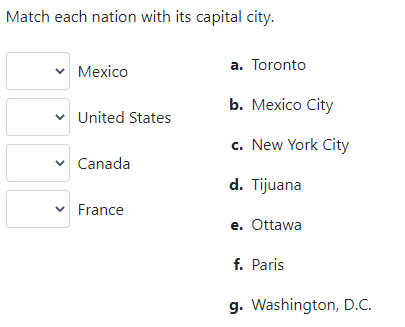
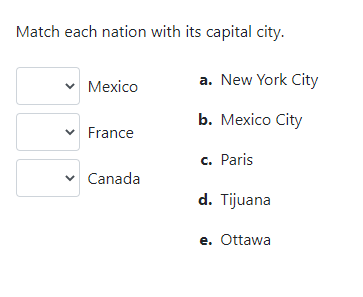
Add fixed-options-order to pl-matching (#4819)
* Add fixed-options-order

* Correct pl-matching news screenshot.

* Fix rendering of counters in answers panel.

* Add note about fixed-options-order

* Add distractors in their original position

* Rephrase comment for clarity

diff --git a/elements/pl-matching/pl-matching.py b/elements/pl-matching/pl-matching.py
@@ -113,13 +113,14 @@ def prepare(element_html, data):
     element = lxml.html.fragment_fromstring(element_html)
 
     required_attribs = ['answers-name']
-    optional_attribs = ['fixed-order', 'number-statements', 'number-options', 'none-of-the-above', 'blank', 'counter-type']
+    optional_attribs = ['fixed-order', 'number-statements', 'number-options', 'none-of-the-above', 'blank', 'counter-type', 'fixed-options-order']
     pl.check_attribs(element, required_attribs, optional_attribs)
     name = pl.get_string_attrib(element, 'answers-name')
     options, statements = categorize_matches(element, data)
 
     # Choose and randomize the options and statements. Each can be in a fixed order.
     fixed_statements_order = pl.get_boolean_attrib(element, 'fixed-order', FIXED_STATEMENTS_ORDER_DEFAULT)
+    fixed_options_order = pl.get_boolean_attrib(element, 'fixed-options-order', FIXED_OPTIONS_ORDER_DEFAULT)
     number_statements = pl.get_integer_attrib(element, 'number-statements', len(statements))
     number_options = pl.get_integer_attrib(element, 'number-options', len(options))
     nota = pl.get_boolean_attrib(element, 'none-of-the-above', NOTA_DEFAULT)
@@ -148,26 +149,36 @@ def prepare(element_html, data):
         # Add distractor options; and None of the Above if needed.
         more_needed = number_options - len(needed_options)
         if more_needed >= len(distractors):
-            # Add all distractors.
-            needed_options.extend(distractors)
+            # Use all options, both correct and distractors.
+            needed_options = options
             # Add NOTA if that's still not enough.
             if more_needed > len(distractors):
                 nota = True
         else:
             # Add a sample of the distractors.
-            needed_options.extend(random.sample(distractors, more_needed))
+            distractor_sample = random.sample(distractors, more_needed)
+            needed_options_keys = needed_options_keys.union(set(o['name'] for o in distractor_sample))
+            needed_options = [o for o in options if o['name'] in needed_options_keys]
         options = needed_options
-        random.shuffle(options)
+        if not fixed_options_order:
+            random.shuffle(options)
 
     elif len(needed_options) > number_options:
         # The limit is set below the # of options needed.
         # Add None of the Above to compensate.
-        options = random.sample(needed_options, number_options)
+
+        if fixed_options_order:
+            # Take a random sampling, but maintain the original order of the options.
+            indices = random.sample(range(len(needed_options)), number_options)
+            options = [needed_options[i] for i in sorted(indices)]
+        else:
+            options = random.sample(needed_options, number_options)
         nota = True
     else:
         # The number of needed options matches the total options.
         options = needed_options
-        random.shuffle(options)
+        if not fixed_options_order:
+            random.shuffle(options)
 
     if nota:
         options.append({'index': len(options), 'name': '__nota__', 'html': 'None of the above'})
@@ -366,7 +377,7 @@ def render(element_html, data):
                 if counter_type == 'full-text':
                     counter = ''
                 else:
-                    counter = f'{get_counter(i + 1, counter_type)}. '
+                    counter = f'{get_counter(correct_answer + 1, counter_type)}. '
                 statement_html = {
                     'option': display_options[correct_answer]['html'],
                     'statement': statement['html'],

diff --git a/docs/elements.md b/docs/elements.md
@@ -682,17 +682,18 @@ Given a list of statements, select a matching option for each entry from a drop-
 
 #### Customizations
 
-| Attribute           | Type                                                       | Default       | Description                                                                                                                                                                                                            |
-| ------------------- | ---------------------------------------------------------- | ------------- | ---------------------------------------------------------------------------------------------------------------------------------------------------------------------------------------------------------------------- |
-| `answers-name`      | string                                                     | —             | Variable name to store data in.                                                                                                                                                                                        |
-| `weight`            | integer                                                    | 1             | Weight to use when computing a weighted average score over elements.                                                                                                                                                   |
-| `fixed-order`       | boolean                                                    | False         | Whether or not to display the statements in a fixed order; otherwise they are shuffled. Options are always shuffled.                                                                                                   |
-| `number-statements` | integer                                                    | special       | The number of statements to display. Defaults to all statements.                                                                                                                                                       |
-| `number-options`    | integer                                                    | special       | The number of options to display. Defaults to all options. The `none-of-the-above` option does not count towards this number.                                                                                          |
-| `none-of-the-above` | boolean                                                    | false         | Whether or not to add a "None of the above" to the end of the options.                                                                                                                                                 |
-| `blank`             | boolean                                                    | True          | Option to add blank dropdown entry as the default selection in each drop-down list.                                                                                                                                    |
-| `counter-type`      | "decimal" or "lower-alpha" or "upper-alpha" or "full-text" | "lower-alpha" | The type of counter to use when enumerating the options. If set to "full-text", the column of options will be hidden, and the text of each option will be used in the statements' dropdown lists, instead of counters. |
-| `hide-score-badge`  | boolean                                                    | false         | Whether or not to hide the correct/incorrect score badge next to each graded answer choice.                                                                                                                            |
+| Attribute             | Type                                                       | Default       | Description                                                                                                                                                                                                            |
+| --------------------- | ---------------------------------------------------------- | ------------- | ---------------------------------------------------------------------------------------------------------------------------------------------------------------------------------------------------------------------- |
+| `answers-name`        | string                                                     | —             | Variable name to store data in.                                                                                                                                                                                        |
+| `weight`              | integer                                                    | 1             | Weight to use when computing a weighted average score over elements.                                                                                                                                                   |
+| `fixed-order`         | boolean                                                    | False         | Whether or not to display the statements in a fixed order; otherwise they are shuffled.                                                                                                                                |
+| `fixed-options-order` | boolean                                                    | False         | Whether or not to display the options in a fixed order; otherwise they are shuffled. See the details of `pl-option` below for more information on option ordering.                                                     |
+| `number-statements`   | integer                                                    | special       | The number of statements to display. Defaults to all statements.                                                                                                                                                       |
+| `number-options`      | integer                                                    | special       | The number of options to display. Defaults to all options. The `none-of-the-above` option does not count towards this number.                                                                                          |
+| `none-of-the-above`   | boolean                                                    | false         | Whether or not to add a "None of the above" to the end of the options.                                                                                                                                                 |
+| `blank`               | boolean                                                    | True          | Option to add blank dropdown entry as the default selection in each drop-down list.                                                                                                                                    |
+| `counter-type`        | "decimal" or "lower-alpha" or "upper-alpha" or "full-text" | "lower-alpha" | The type of counter to use when enumerating the options. If set to "full-text", the column of options will be hidden, and the text of each option will be used in the statements' dropdown lists, instead of counters. |
+| `hide-score-badge`    | boolean                                                    | false         | Whether or not to hide the correct/incorrect score badge next to each graded answer choice.                                                                                                                            |
 
 Inside the `pl-matching` element, a series of `pl-statement` and `pl-option` elements specify the questions the student must answer and the options to which they can be matched, respectively. Statements are displayed in the left column, and options in the right.
 
@@ -705,6 +706,13 @@ The content of a `pl-statement` can be any HTML element, including other Prairie
 | `match`   | string | —       | Identifies the option as the correct response for this `pl-statement`. If `match` corresponds to the `name` of any `pl-option` element, the statement will be linked to that `pl-option`, otherwise a new option is implicitly created based on this `match` value. |
 
 The content of a `pl-option` can be any HTML element, including other PrairieLearn elements. `pl-option` elements are optional; options are created by default based on the `match` attribute of each `pl-statement`. Additional `pl-option` elements can be added to serve as distractors (an option that is always incorrect, such as "New York City" in the example above), or to render formatted HTML/PrairieLearn elements instead of plain text (see the last question in the demo problem linked in the "Example implementations" below).
+
+When the `fixed-options-order` feature is used, options are shown in the following order:
+
+1. Any explicitly-defined `pl-option` elements are shown first, in the order they are declared.
+2. Any implicitly-defined options defined by a `pl-statement` `match` attribute are shown next, in the order they are declared.
+
+It is recommended to explicitly define `pl-option` elements when using `fixed-options-order` to have complete certainty on the order they will be shown.
 
 A `pl-option` must be specified with these attributes:
 
